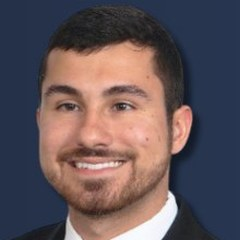
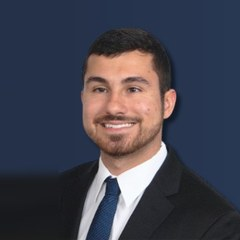
LinkedIn: $179 monthly price, plan menu on top button, zoomed-out photos
- Monthly Management $150 -> $179 (offer switch, offer card, Services).
- Top LinkedIn button is now 'Choose Your Plan' and opens a small menu
  with Profile Setup $79 and Monthly Management $179 (closes on outside
  click / Esc), plus a link to compare both plans.
- Brandon Keys and Faiz profile photos re-cropped wider so the face is
  not oversized; separate light-background photo for the earlier Brandon
  card.

Claude-Session: https://claude.ai/code/session_01RmbtAY1Cx35dTRVDZ9j1As

diff --git a/index.html b/index.html
@@ -527,6 +527,27 @@
     }
     .btn-li:hover { transform: translateY(-2px); box-shadow: 0 0 0 6px rgba(10,102,194,0.18), 0 16px 36px rgba(10,102,194,0.34); }
     .btn-ico { display: inline-grid; place-items: center; width: 22px; height: 22px; border-radius: 50%; background: rgba(255,255,255,0.22); font-size: 13px; }
+    .li-pick { position: relative; display: inline-block; }
+    .li-pick-menu {
+      position: absolute; top: calc(100% + 12px); left: 50%; translate: -50% 0; z-index: 20;
+      width: 330px; padding: 8px; text-align: left;
+      background: #fff; border: 1px solid var(--border); border-radius: 18px;
+      box-shadow: 0 24px 60px rgba(10,40,80,0.20); animation: heroUp 0.22s ease both;
+    }
+    .li-pick-menu[hidden] { display: none; }
+    .li-pick-menu a:not(.li-pick-more) {
+      display: flex; align-items: center; justify-content: space-between; gap: 12px;
+      padding: 14px; border-radius: 12px; transition: background var(--ease);
+    }
+    .li-pick-menu a:not(.li-pick-more):hover, .li-pick-menu a:focus-visible { background: var(--bg-raised); }
+    .li-pick-menu b { display: block; font-size: 15px; color: var(--text); }
+    .li-pick-menu small { display: block; font-size: 12.5px; color: var(--text-muted); font-weight: 500; }
+    .li-pick-menu em { font-style: normal; text-align: right; font-family: var(--font-display); font-weight: 800; font-size: 22px; color: #0a66c2; line-height: 1; }
+    .li-pick-menu em small { font-family: var(--font); font-size: 11px; color: var(--text-dim); margin-top: 3px; }
+    .li-pick-menu a + a:not(.li-pick-more) { border-top: 1px solid var(--border-soft); }
+    .li-pick-more { display: block; text-align: center; font-size: 13px; font-weight: 700; color: #0a66c2; padding: 10px 0 6px; }
+    .li-pick .btn-ico { transition: transform var(--ease); }
+    .li-pick.open .btn-ico { transform: rotate(180deg); }
     .btn-li-ghost { background: #fff; color: #0a66c2; border: 1.5px solid rgba(10,102,194,0.35); }
     .btn-li-ghost:hover { border-color: #0a66c2; transform: translateY(-2px); }
     .li-trust { list-style: none; display: flex; flex-wrap: wrap; justify-content: center; gap: 14px 30px; margin-top: 30px; }
@@ -592,6 +613,7 @@
     @media (max-width: 560px) {
       .li-hero-cta { flex-direction: column; align-items: center; }
       .li-hero-cta .btn { min-width: 250px; justify-content: center; }
+      .li-pick-menu { width: min(330px, calc(100vw - 32px)); }
       .li-trust { flex-direction: column; align-items: flex-start; width: fit-content; margin-left: auto; margin-right: auto; }
     }
 
@@ -1606,7 +1628,21 @@
         <h2 class="li-h">Post 5 times a week<br><span class="li-grad">without writing <span style="white-space:nowrap">a word.</span></span></h2>
         <p class="li-lead">I run your LinkedIn end to end. <b>Strategy, writing, design and publishing.</b> Your page stays active and on-brand <b>while you run the business.</b></p>
         <div class="li-hero-cta">
-          <a href="https://forms.gle/bXXwp2FDUppkxMsu7" class="btn btn-li" target="_blank" rel="noopener">Start for $150/month <span class="btn-ico">→</span></a>
+          <!-- ✏ EDIT: Top LinkedIn button opens a menu with both offers -->
+          <div class="li-pick" data-pick>
+            <button type="button" class="btn btn-li" aria-haspopup="true" aria-expanded="false">Choose Your Plan <span class="btn-ico">▾</span></button>
+            <div class="li-pick-menu" role="menu" hidden>
+              <a role="menuitem" href="https://forms.gle/bXXwp2FDUppkxMsu7" target="_blank" rel="noopener">
+                <span><b>Profile Setup</b><small>Banner &amp; Featured set · 3 revisions</small></span>
+                <em>$79<small>one-time</small></em>
+              </a>
+              <a role="menuitem" href="https://forms.gle/bXXwp2FDUppkxMsu7" target="_blank" rel="noopener">
+                <span><b>Monthly Management</b><small>5 posts a week, done for you</small></span>
+                <em>$179<small>/month</small></em>
+              </a>
+              <a class="li-pick-more" href="#li-plan">Compare both plans ↓</a>
+            </div>
+          </div>
           <a href="#li-plan" class="btn btn-li-ghost">See what's included</a>
         </div>
         <ul class="li-trust">
@@ -1677,7 +1713,7 @@
           <!-- ✏ EDIT: The two LinkedIn offers. The switch shows one at a time; "on" marks the one shown first. -->
           <div class="li-switch" role="tablist" aria-label="LinkedIn offers">
             <button type="button" role="tab" aria-selected="false" data-plan="setup">Profile Setup <em>$79</em></button>
-            <button type="button" role="tab" aria-selected="true" class="on" data-plan="monthly">Monthly<span class="sw-lg"> Management</span> <em>$150</em></button>
+            <button type="button" role="tab" aria-selected="true" class="on" data-plan="monthly">Monthly<span class="sw-lg"> Management</span> <em>$179</em></button>
           </div>
 
           <div class="li-plan-p" data-panel="setup" hidden>
@@ -1702,7 +1738,7 @@
 
           <div class="li-plan-p" data-panel="monthly">
             <span class="li-offer-k">Done-for-you LinkedIn</span>
-            <div class="li-offer-n">$150<small>/month</small></div>
+            <div class="li-offer-n">$179<small>/month</small></div>
             <p class="li-offer-p">Fixed price. 5 posts a week, about 20–22 a month, planned a month ahead.</p>
             <div class="li-offer-mix">
               <div><b>1</b><span>Carousel</span></div>
@@ -1716,7 +1752,7 @@
               <li>Scheduling &amp; publishing, every week</li>
               <li>Monthly performance report</li>
             </ul>
-            <a href="https://forms.gle/bXXwp2FDUppkxMsu7" class="btn btn-li li-offer-btn" target="_blank" rel="noopener">Start for $150/month <span class="btn-ico">→</span></a>
+            <a href="https://forms.gle/bXXwp2FDUppkxMsu7" class="btn btn-li li-offer-btn" target="_blank" rel="noopener">Start for $179/month <span class="btn-ico">→</span></a>
             <p class="li-offer-note">2-minute form · Reply within 24 hours</p>
           </div>
         </div>
@@ -1808,7 +1844,7 @@
           <article class="pf-card">
             <div class="pf-banner"><img src="assets/linkedin/banner-brandon-keys-light.jpg" alt="Earlier LinkedIn profile banner for Brandon Keys, Keys Media" loading="lazy" width="1584" height="396"></div>
             <div class="pf-body">
-              <span class="pf-av"><img src="assets/linkedin/profiles/brandon-keys.jpg" alt="Brandon Keys" loading="lazy" width="240" height="240"></span>
+              <span class="pf-av"><img src="assets/linkedin/profiles/brandon-keys-light.jpg" alt="Brandon Keys" loading="lazy" width="240" height="240"></span>
               <h4 class="pf-name">Brandon Keys</h4>
               <p class="pf-sub">Founder, Keys Media · Earlier version</p>
               <span class="pf-sk" aria-hidden="true"><i></i><i></i></span>
@@ -2060,7 +2096,7 @@
           <span class="svc-best">Best for: Founders, creators &amp; agency owners</span>
           <div class="svc-title">LinkedIn Management</div>
           <p class="svc-out">Stay visible on LinkedIn without writing a word.</p>
-          <div class="svc-price ">$150<small>/month</small></div>
+          <div class="svc-price ">$179<small>/month</small></div>
           <p class="svc-alt">Or a one-time profile setup for <b>$79</b></p>
           <ul class="svc-list">
             <li>5 posts a week: carousels, cheat sheets &amp; posts</li>
@@ -2068,7 +2104,7 @@
             <li>Scheduled, published &amp; reported monthly</li>
           </ul>
           <div class="svc-actions">
-            <a href="https://forms.gle/bXXwp2FDUppkxMsu7" class="btn btn-primary svc-btn" target="_blank" rel="noopener">Start for $150/month →</a>
+            <a href="https://forms.gle/bXXwp2FDUppkxMsu7" class="btn btn-primary svc-btn" target="_blank" rel="noopener">Start for $179/month →</a>
             <a href="#linkedin" class="svc-link">See examples →</a>
           </div>
         </div>
@@ -2534,6 +2570,16 @@
       for (let i = 0; i < setCount; i++) addCopy();
       const pxPerSec = track.classList.contains('trust-logos') ? 45 : 38;
       track.style.animationDuration = (track.scrollWidth / 2 / pxPerSec) + 's';
+    });
+
+    // ---- LinkedIn top button: open a small menu with both offers ----
+    document.querySelectorAll('[data-pick]').forEach(box => {
+      const btn = box.querySelector('button'), menu = box.querySelector('.li-pick-menu');
+      const set = open => { menu.hidden = !open; box.classList.toggle('open', open); btn.setAttribute('aria-expanded', open); };
+      btn.addEventListener('click', e => { e.stopPropagation(); set(menu.hidden); });
+      menu.addEventListener('click', e => { if (e.target.closest('a')) set(false); });
+      document.addEventListener('click', e => { if (!box.contains(e.target)) set(false); });
+      document.addEventListener('keydown', e => { if (e.key === 'Escape') set(false); });
     });
 
     // ---- LinkedIn offers: switch between Profile Setup and Monthly Management ----
